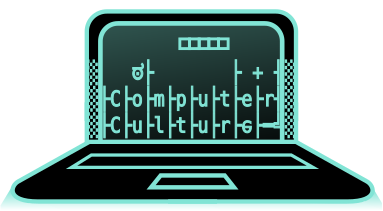
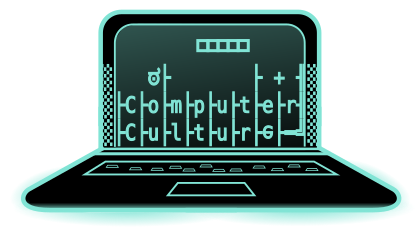
update

diff --git a/landing.html b/landing.html
@@ -71,7 +71,7 @@
 
 </head><body style="background:#000000;/* background-image: url(header_bg.png); *//* background-repeat: no-repeat; *//* background-position:top center; */margin: 0px;
 
-    background-image: url(https://raw.githubusercontent.com/nazar-chepliaka/ukr-git-documentation/main/bitmap2.png);
+    background-image: url(bitmap2.png);
     background-repeat: repeat-x;
     background-position: bottom center;
 
@@ -99,7 +99,7 @@
     max-width: 100%;
 "></div>
 <p style="text-align:center;display: flex;align-items: center;align-content: center;justify-items: center;justify-content: center;/* background-image: url(header_bg.png); */background-repeat: no-repeat;background-position-y: 9px;background-position-x: center;z-index: 2;position: relative;">
-	<img src="https://raw.githubusercontent.com/nazar-chepliaka/ukr-git-documentation/main/cult3.png" style="max-width: 100%;"><br><br>
+	<img src="cult3.png" style="max-width: 100%;"><br><br>
 </p>
 <div class="container" style="
 	    /*background-image: url(https://raw.githubusercontent.com/nazar-chepliaka/ukr-git-documentation/main/header_bg.png);
@@ -329,7 +329,7 @@
 </div>
 <div style="
     min-height: 280px;
-    margin-bottom: 70px;
+    margin-bottom: 0px;
     display:flex;
     justify-content: center;
     z-index: 1;
